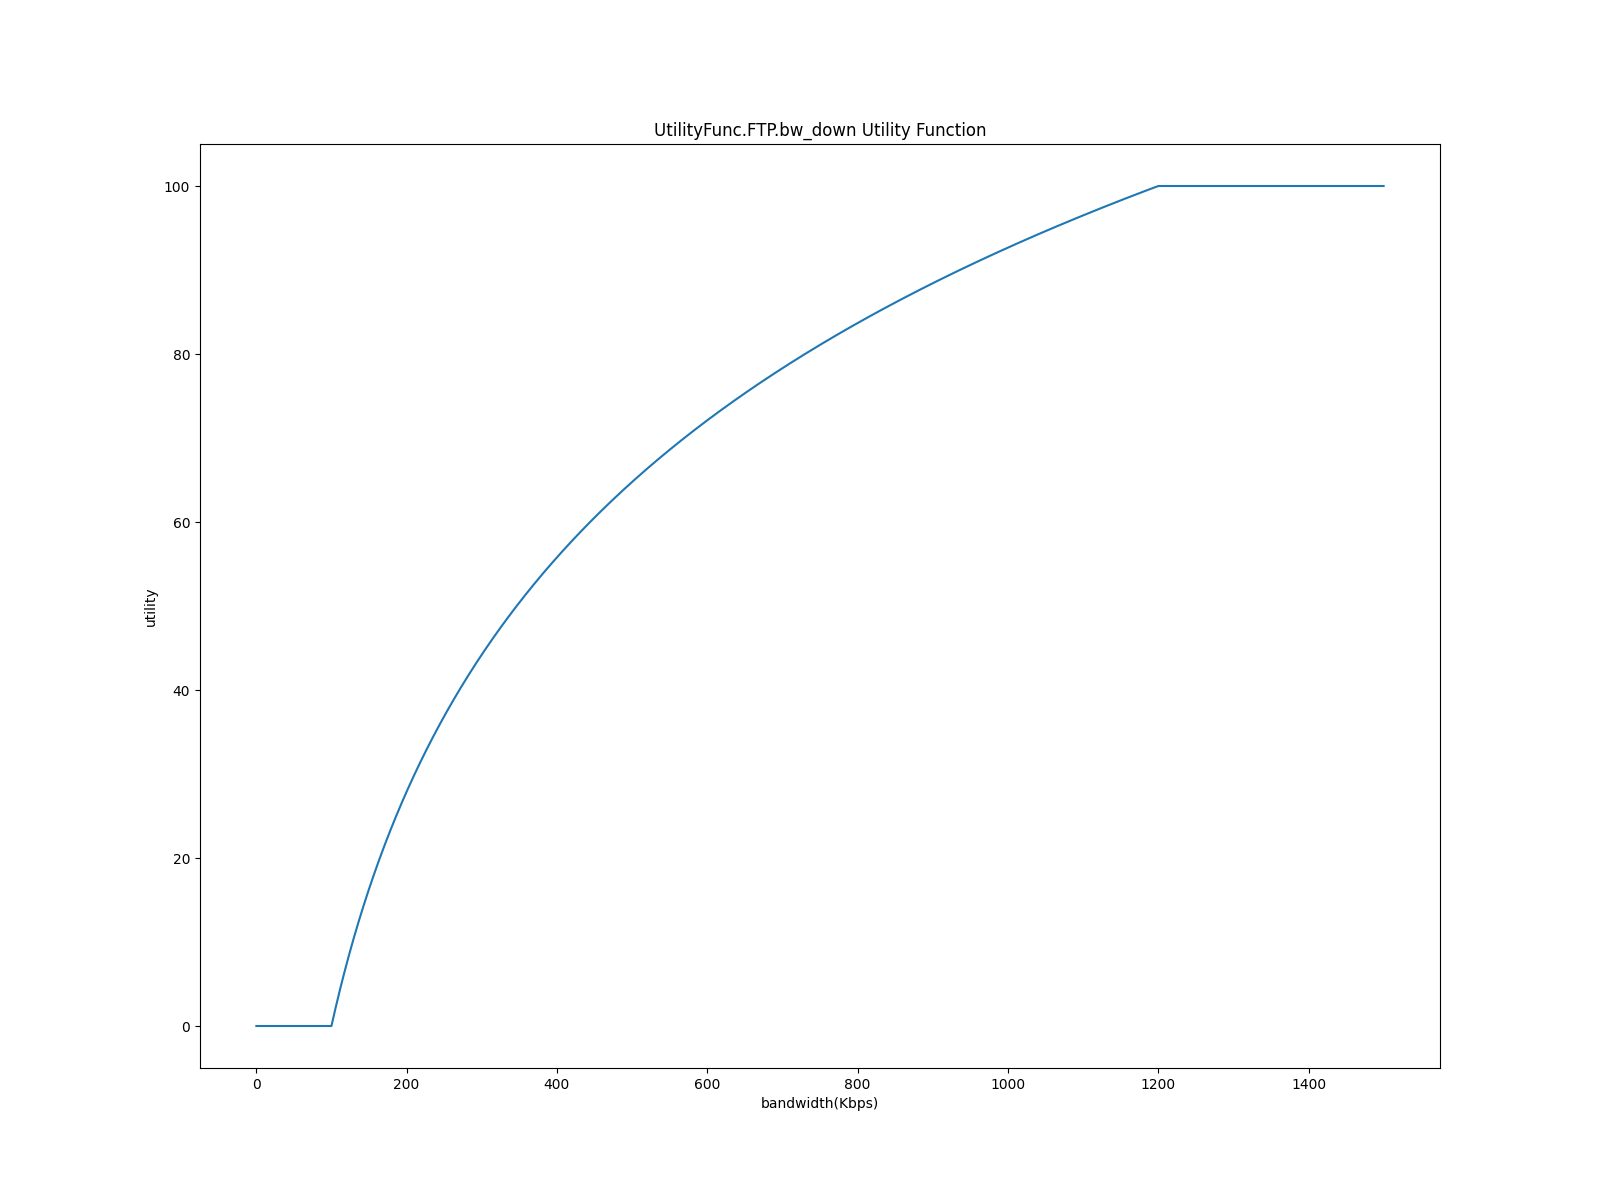
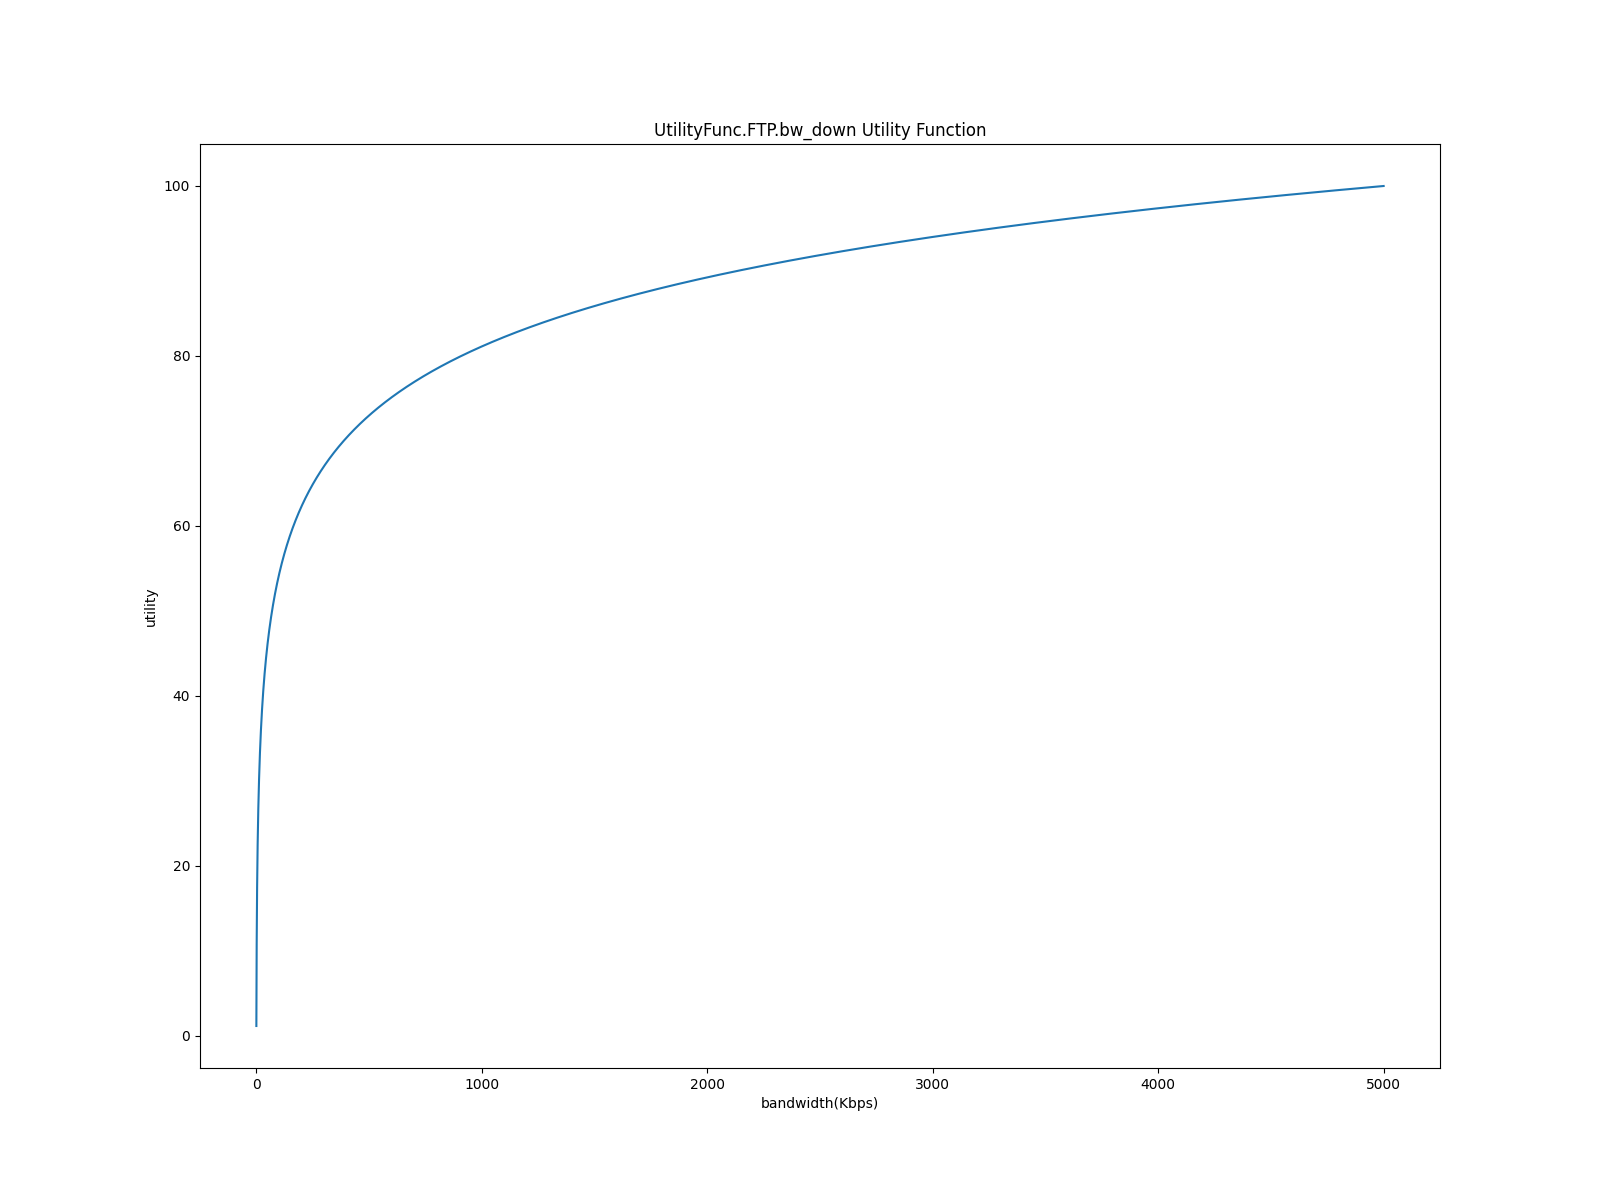
Replot utility function.

diff --git a/plot_distri_utilFunc.py b/plot_distri_utilFunc.py
@@ -108,35 +108,30 @@ def utility_func_bw_test(max_x, _slice, func):
     plt.plot(x, y)
     plt.savefig(f'{dir}{func.__qualname__}_utility_func.png')
 
-def utility_func_delay_test(max_x, _slice, func, location):
+def utility_func_delay_test(max_x, _slice, func):
     plt.figure(figsize=figsize)
-    plt.title(f'{func.__qualname__} {location} Utility Function')
+    plt.title(f'{func.__qualname__} Utility Function')
     plt.xlabel('delay(ms)')
     plt.ylabel('times')
-    if location == 'cloud':
-        d = PT5_cloud_d
-    else:
-        d = PT5_edge_d
-    x = np.arange(d, max_x + d, max_x / _slice)
+    x = np.arange(0, max_x, max_x / _slice)
     y = []
     for val in x:
-        y.append(func(val, location))
+        y.append(func(val))
     plt.plot(x, y)
-    plt.savefig(f'{dir}{func.__qualname__}_{location}_utility_func.png')
+    plt.savefig(f'{dir}{func.__qualname__}_utility_func.png')
 
 if __name__ == '__main__':
     beta_test()
     PT5_test()
     # plt.show()
-    utility_func_bw_test(800, 8000, UtilityFunc.VoIP.bw_up)
-    utility_func_bw_test(40, 4000, UtilityFunc.VoIP.bw_down)
-    utility_func_delay_test(20, 2000, UtilityFunc.VoIP.delay, 'cloud')
-    utility_func_delay_test(20, 2000, UtilityFunc.VoIP.delay, 'edge')
+    utility_func_bw_test(150, 1500, UtilityFunc.VoIP.bw_up)
+    utility_func_bw_test(20, 2000, UtilityFunc.VoIP.bw_down)
+    utility_func_delay_test(100, 1000, UtilityFunc.VoIP.delay)
     # plt.show()
     utility_func_bw_test(50, 5000, UtilityFunc.IPVideo.bw_up)
-    utility_func_bw_test(1000, 10000, UtilityFunc.IPVideo.bw_down)
+    utility_func_bw_test(5000, 50000, UtilityFunc.IPVideo.bw_down)
     # plt.show()
     utility_func_bw_test(50, 5000, UtilityFunc.FTP.bw_up)
-    utility_func_bw_test(1500, 15000, UtilityFunc.FTP.bw_down)
+    utility_func_bw_test(5000, 50000, UtilityFunc.FTP.bw_down)
     # plt.show()
     print(f'Finished plotting, save result to {dir}!')
